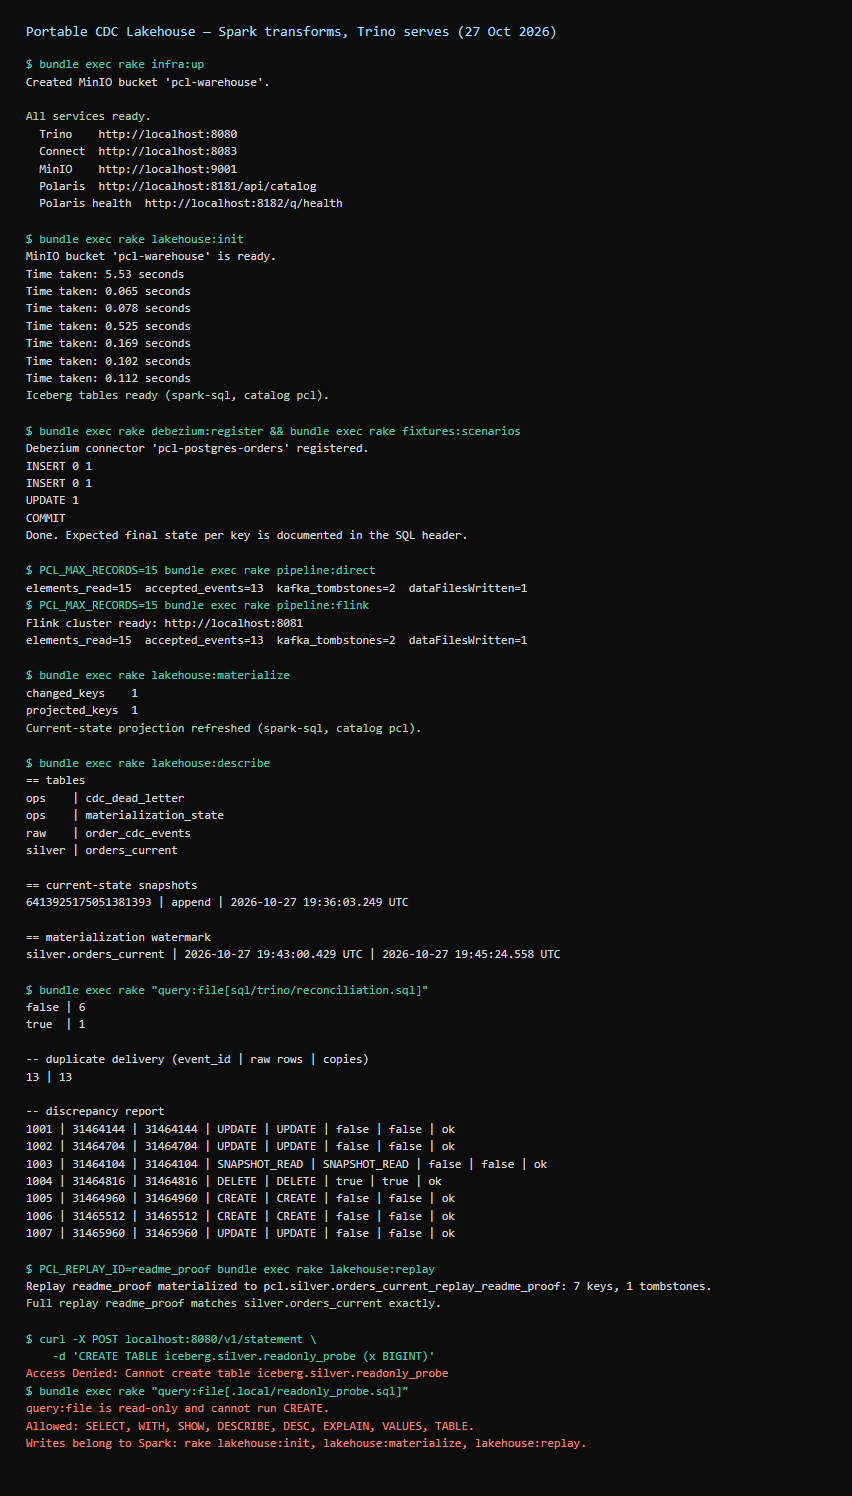
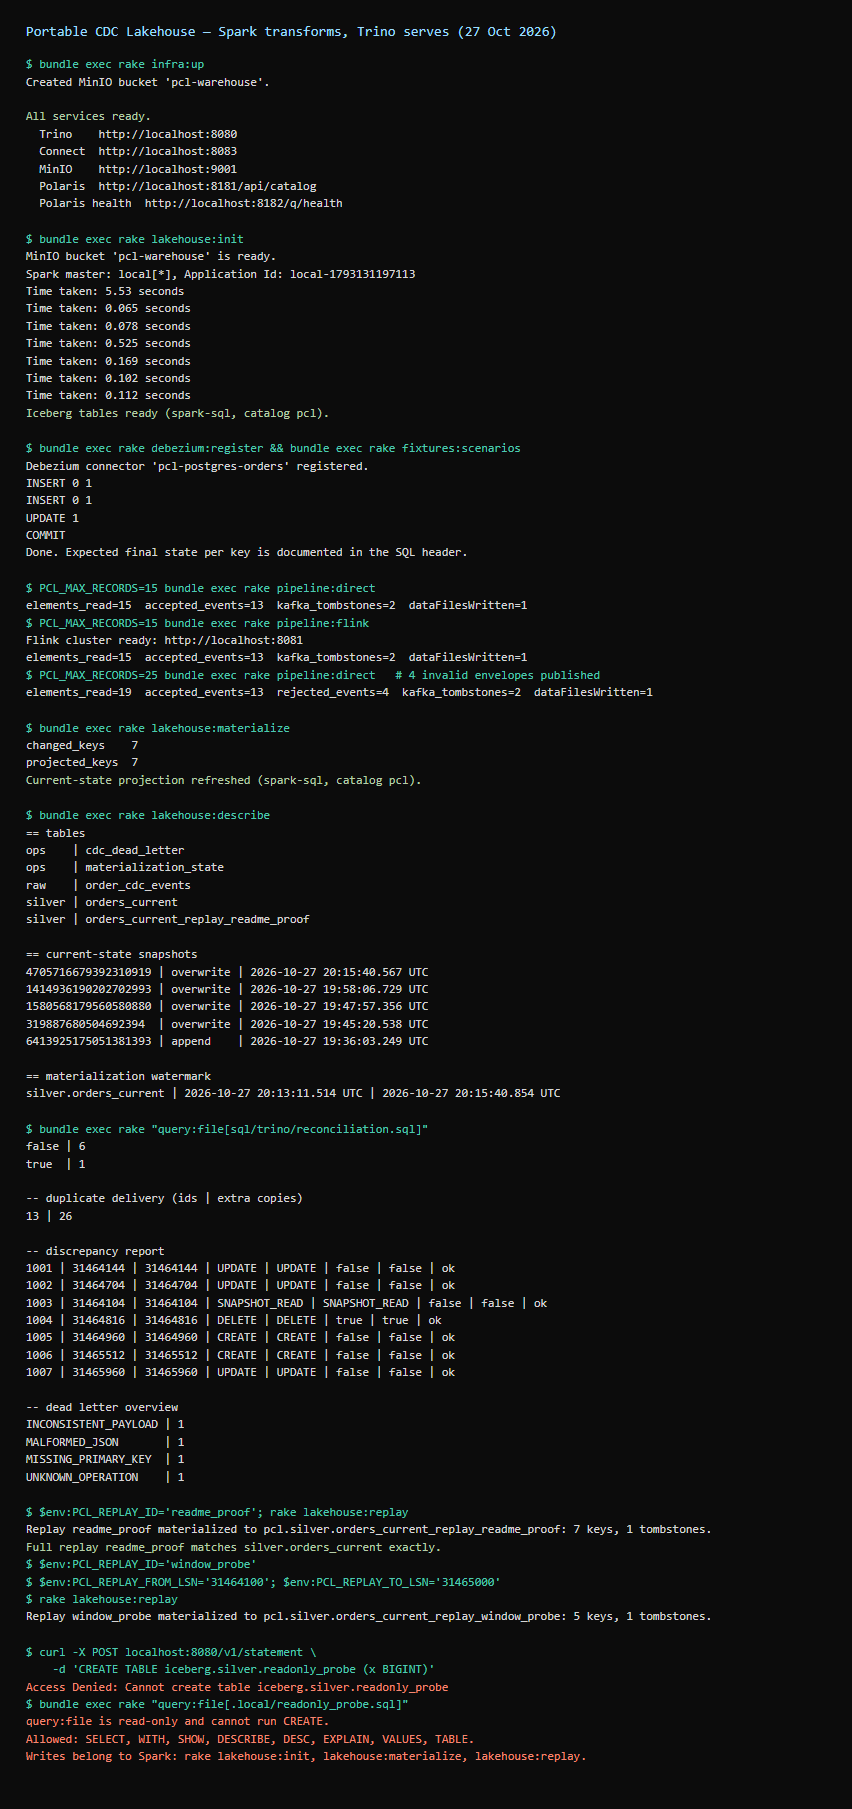
docs(readme): document dead-letter handling and bounded replay

diff --git a/README.md b/README.md
@@ -296,7 +296,7 @@ elements_read=15  accepted_events=13  kafka_tombstones=2  dataFilesWritten=1
 
 The FlinkRunner job started from the earliest offset because no consumer offsets were committed, so it appended a second batch of 13 accepted events. A third bounded pass, used for the dead-letter check below, appended the same 13 events once more. The audit table now holds 39 rows for 13 distinct event ids, which is the at-least-once behavior the projection is designed to absorb.
 
-In this session both passes were bounded to 15 records. The screenshots below come from the earlier continuous run of the same job, which stayed up long enough to accumulate checkpoints:
+In this session the runner passes were bounded to 15 records (19 for the dead-letter check below). The screenshots below come from the earlier continuous run of the same job, which stayed up long enough to accumulate checkpoints:
 
 ![Beam job running on the Flink dashboard](docs/screenshots/03-flink-job-running.png)
 
@@ -435,7 +435,16 @@ Orders 1006 and 1007 are absent because their events fall outside the window. A 
 
 ### 5. Invalid envelopes are quarantined, not dropped
 
-Four deliberately invalid envelopes were published to the same Kafka topic: truncated JSON, an unknown `op`, a delete with no row image, and an update with no primary key. The next bounded pass read 19 records, accepted 13, and rejected 4:
+Four deliberately invalid envelopes were published to the same Kafka topic: truncated JSON, an unknown `op`, a delete with no row image, and an update with no primary key. `infra/fixtures/invalid_envelopes.jsonl` holds them, so the check is reproducible:
+
+```powershell
+Get-Content infra/fixtures/invalid_envelopes.jsonl |
+  podman exec -i pcl-kafka /opt/kafka/bin/kafka-console-producer.sh `
+    --bootstrap-server localhost:9092 --topic pcl.public.orders
+$env:PCL_MAX_RECORDS = '25'; bundle exec rake pipeline:direct
+```
+
+The bounded pass read 19 records, accepted 13, and rejected 4:
 
 ```text
 elements_read=19  accepted_events=13  rejected_events=4  kafka_tombstones=2  dataFilesWritten=1
